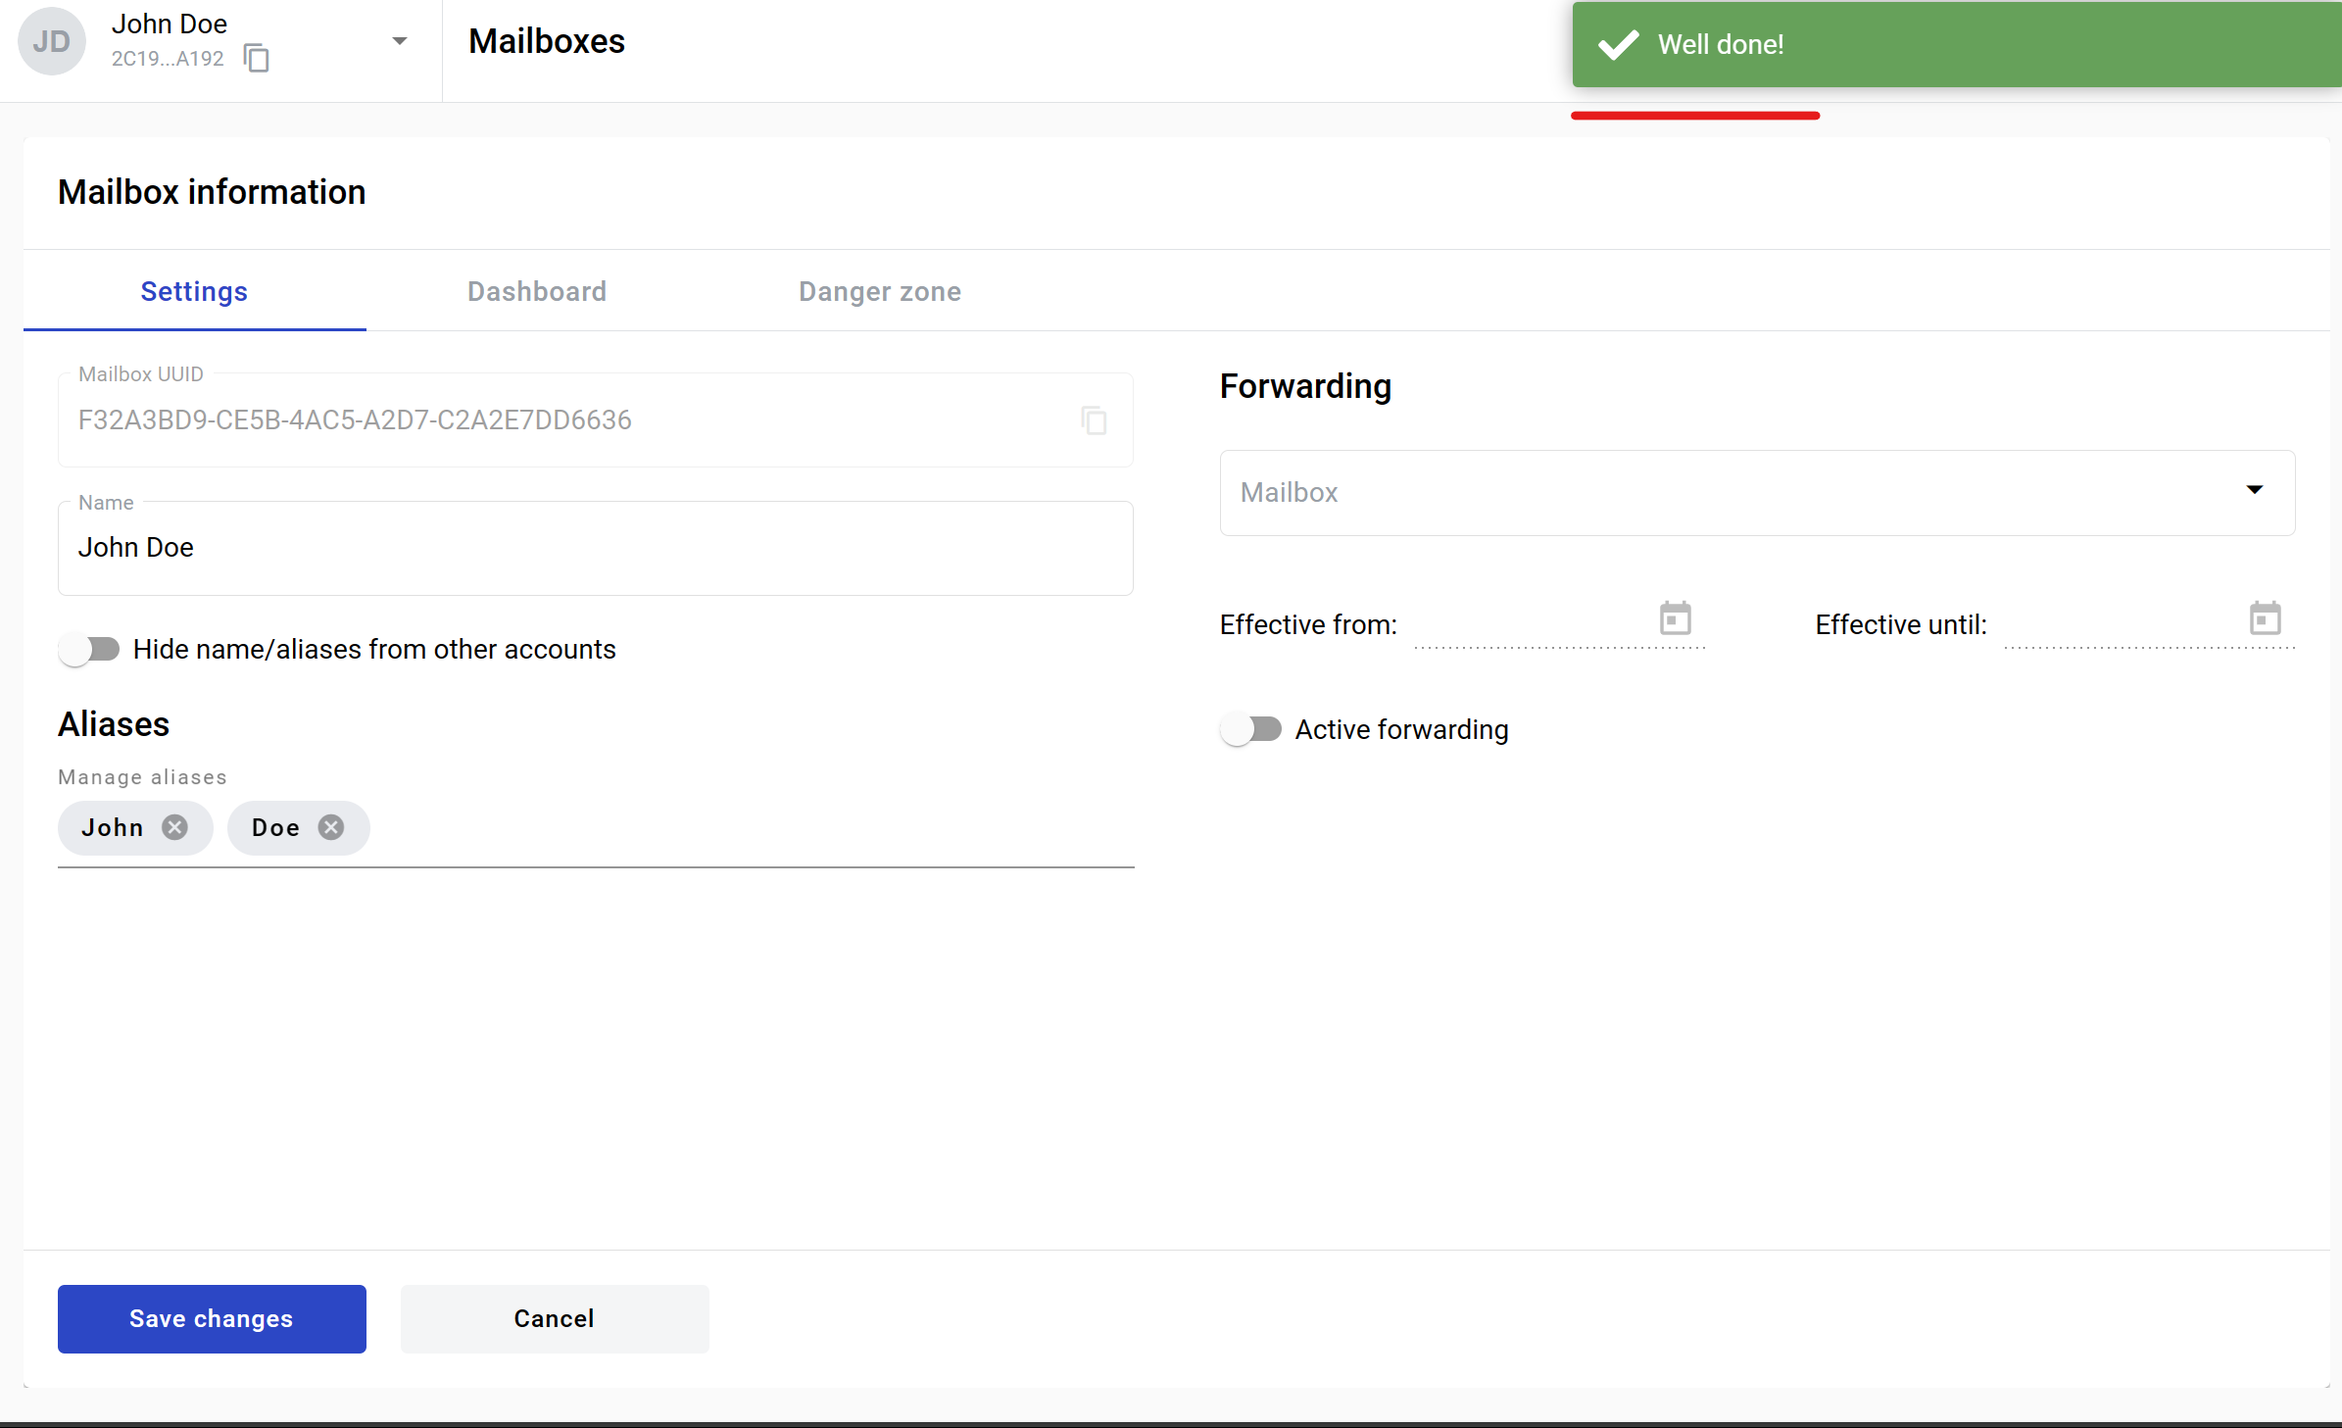
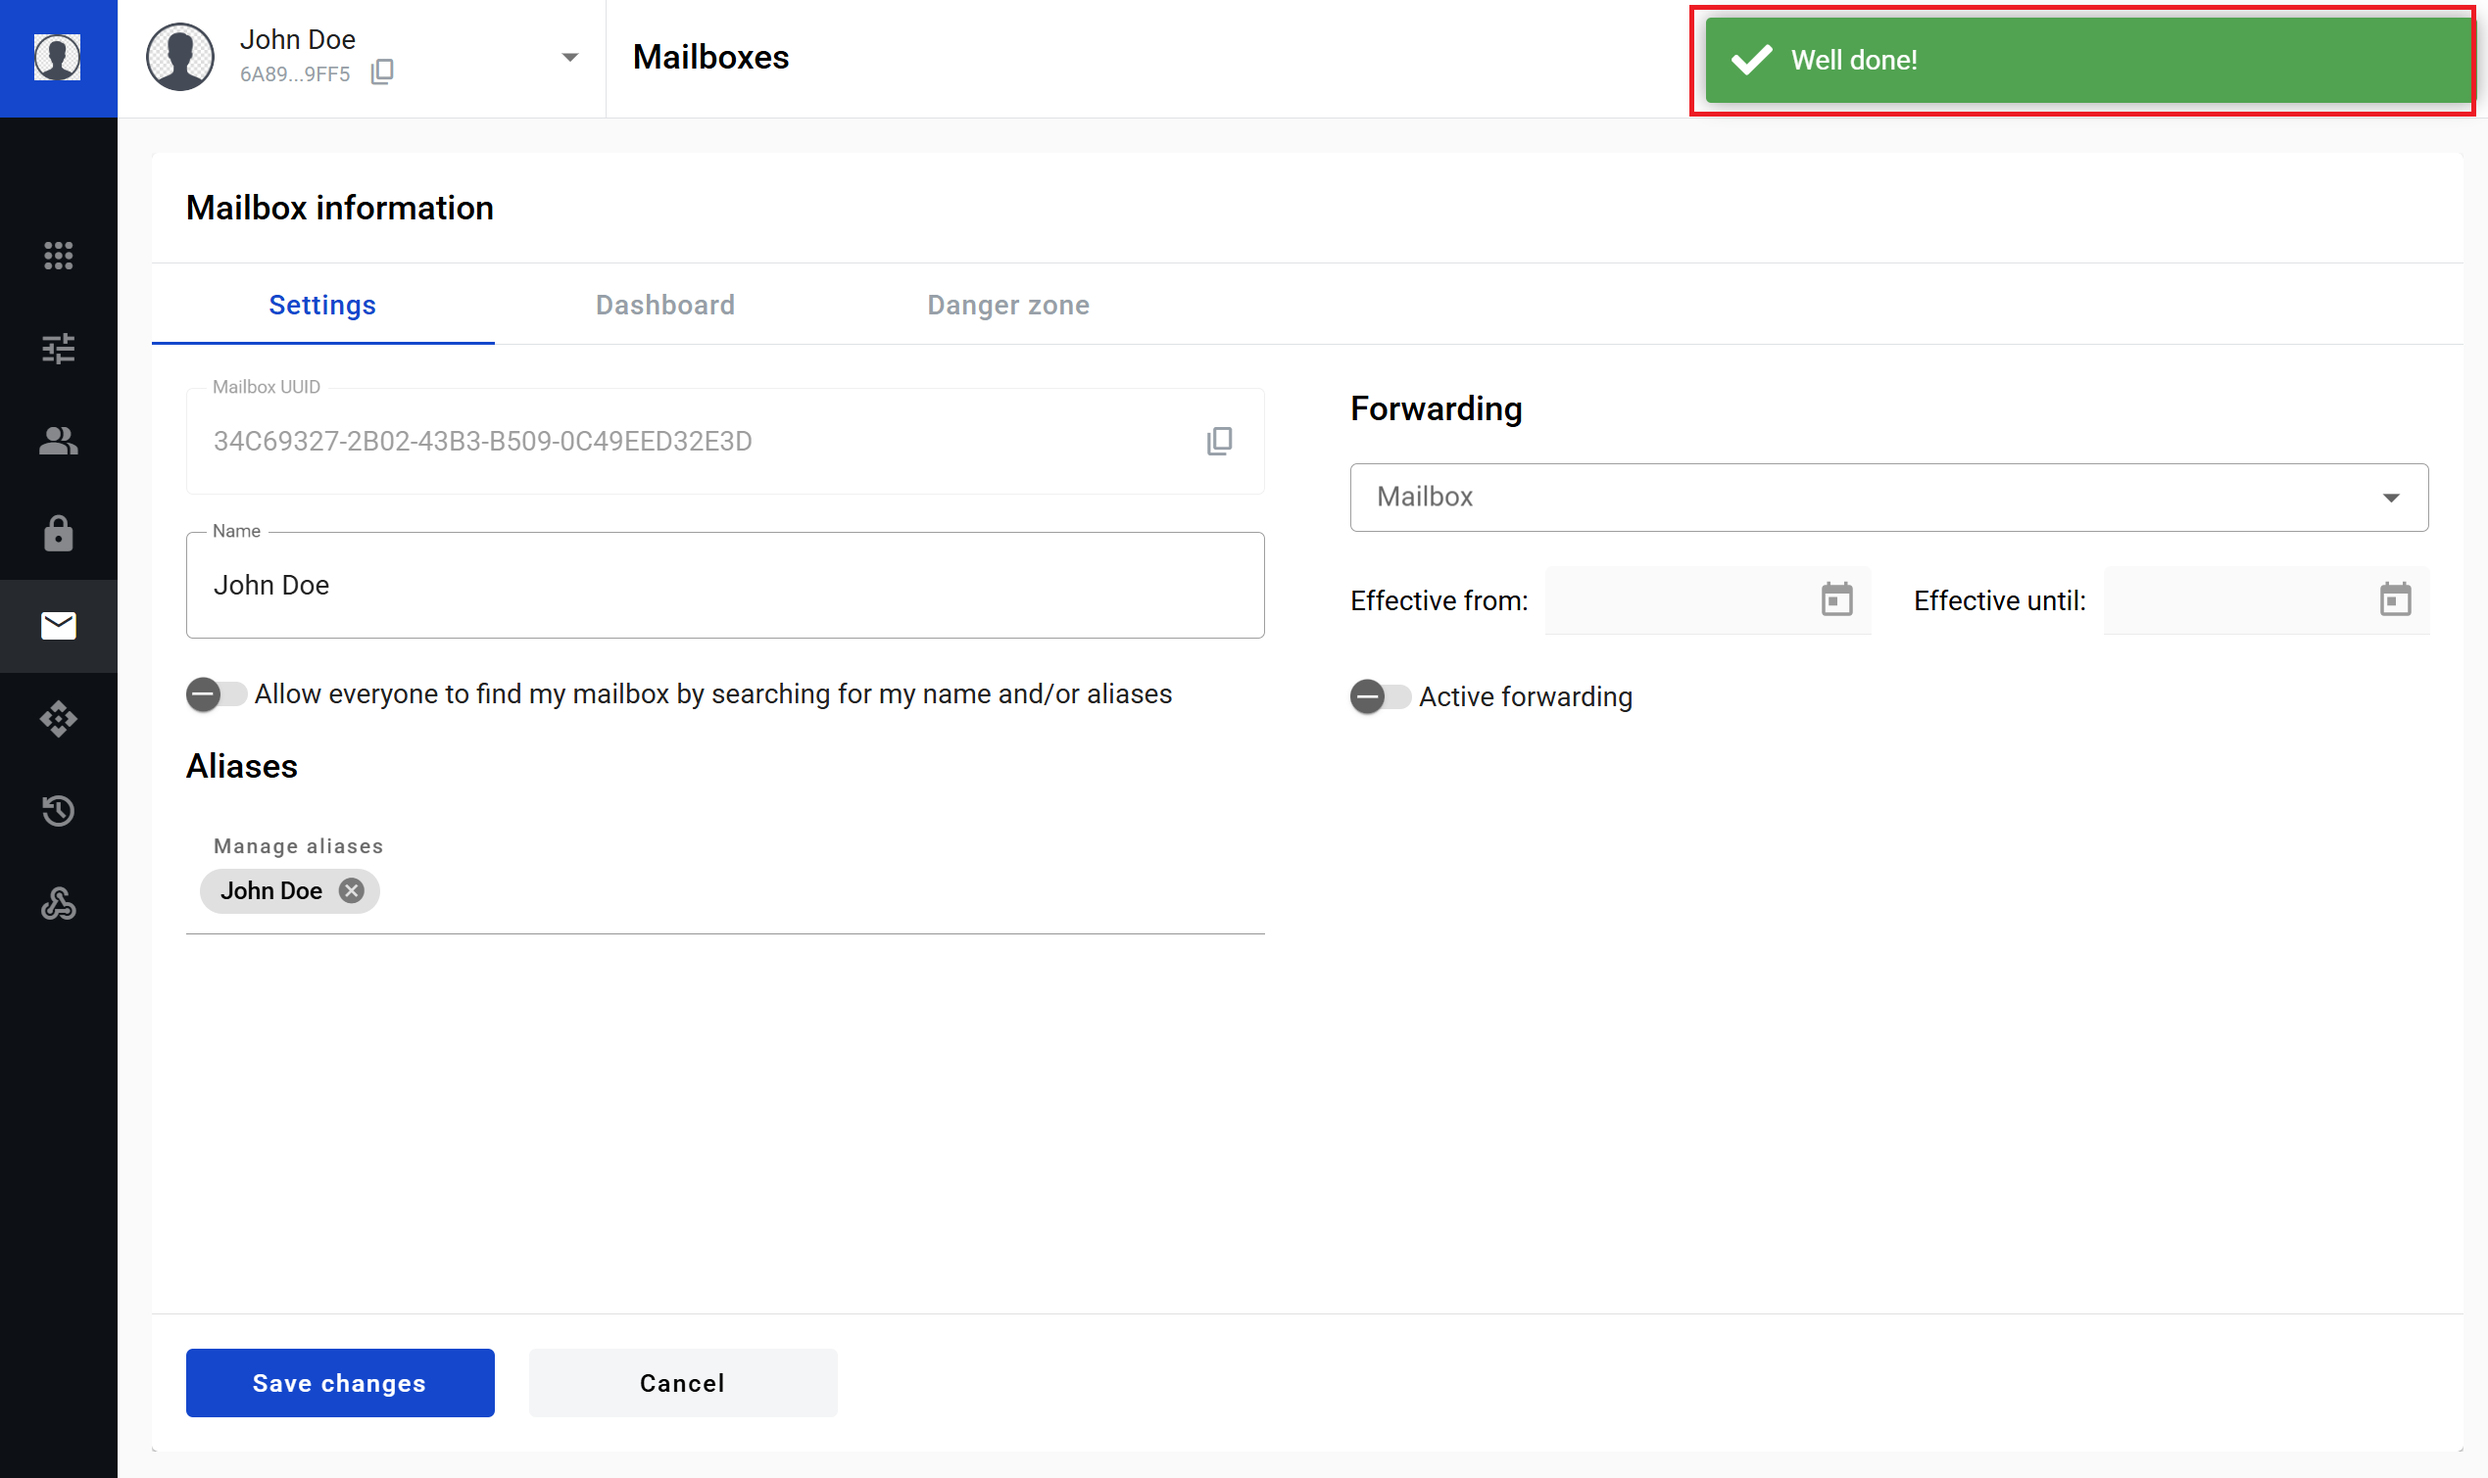
Enable mailbox visibility in search toggle

diff --git a/docs/source/pages/howToWorkWithPlatform/adminApplication/mailboxes/mailboxes.rst b/docs/source/pages/howToWorkWithPlatform/adminApplication/mailboxes/mailboxes.rst
@@ -76,7 +76,7 @@ To copy the mailbox UUID click the copy icon. After successful copying the notif
 
 **How to edit mailbox name visibility**
 
-You can hide visibility of your mailbox for system members.To do this, activate the toggle: "Hide name/aliases from other accounts". When the toggle is active mailbox name or alias can be found only by users who have access to this account.
+You can enable the visibility of your mailbox for system members. To do so, activate the "Allow everyone to find my mailbox by searching for my name and/or aliases" toggle and then click the "Save changes" button. When the toggle is active, the mailbox can be found by all users on the platform by it`s name or aliases.
 
 .. image:: pic_mailboxes/mailboxesHideAliases.png
    :width: 600
